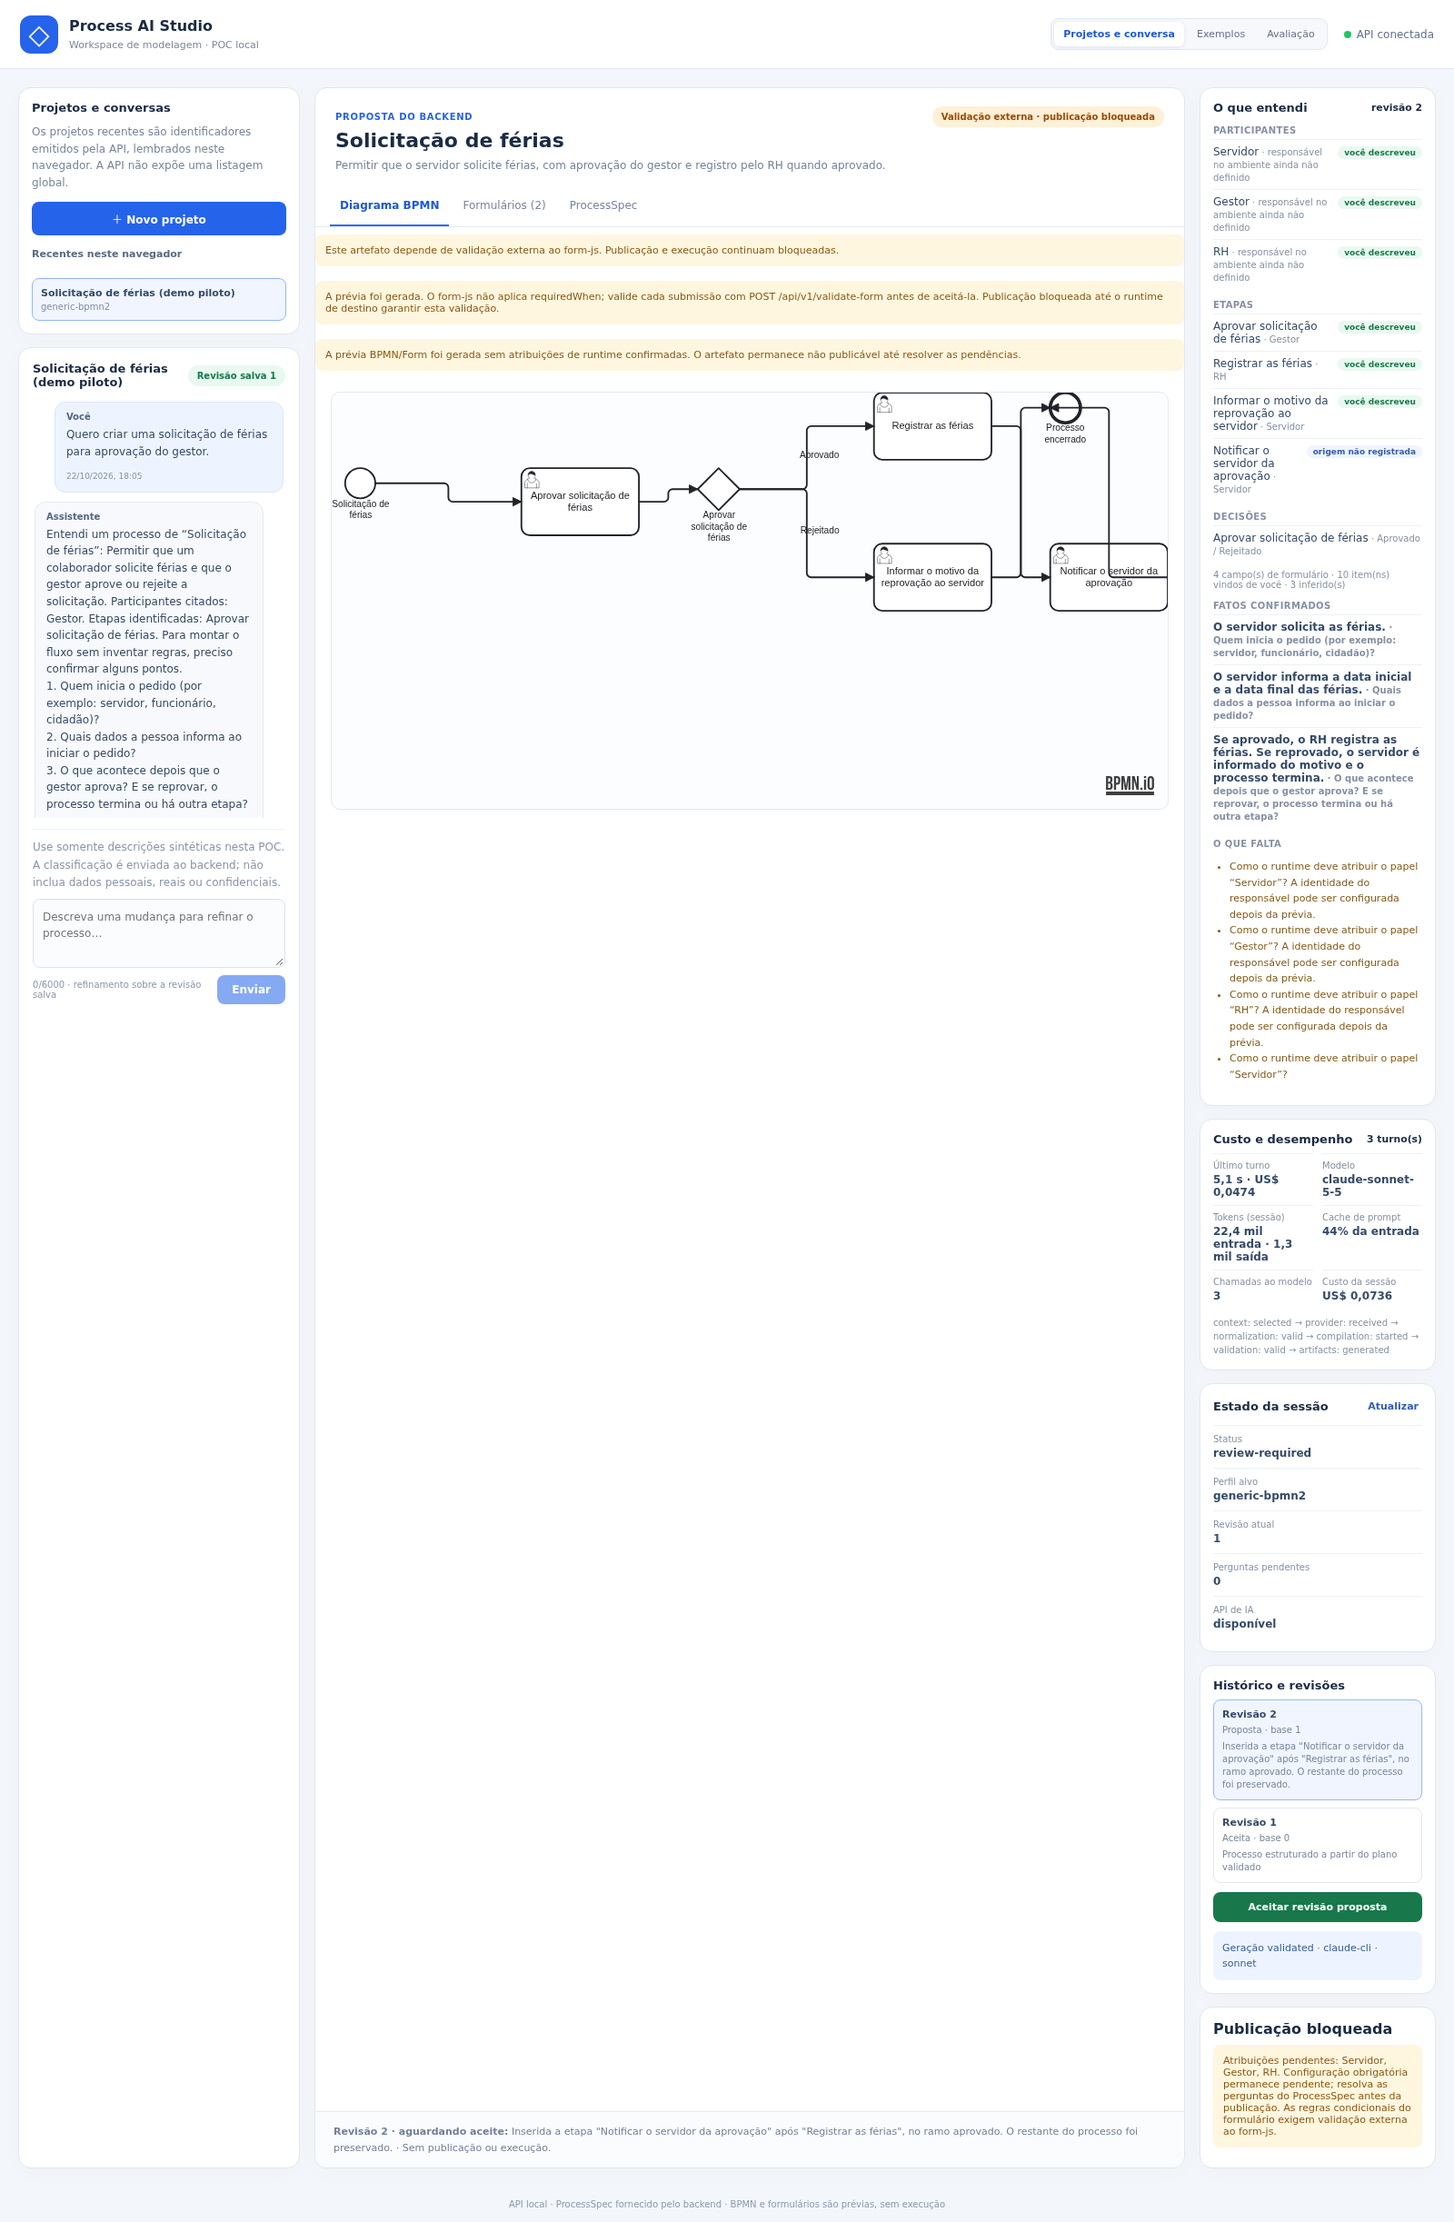
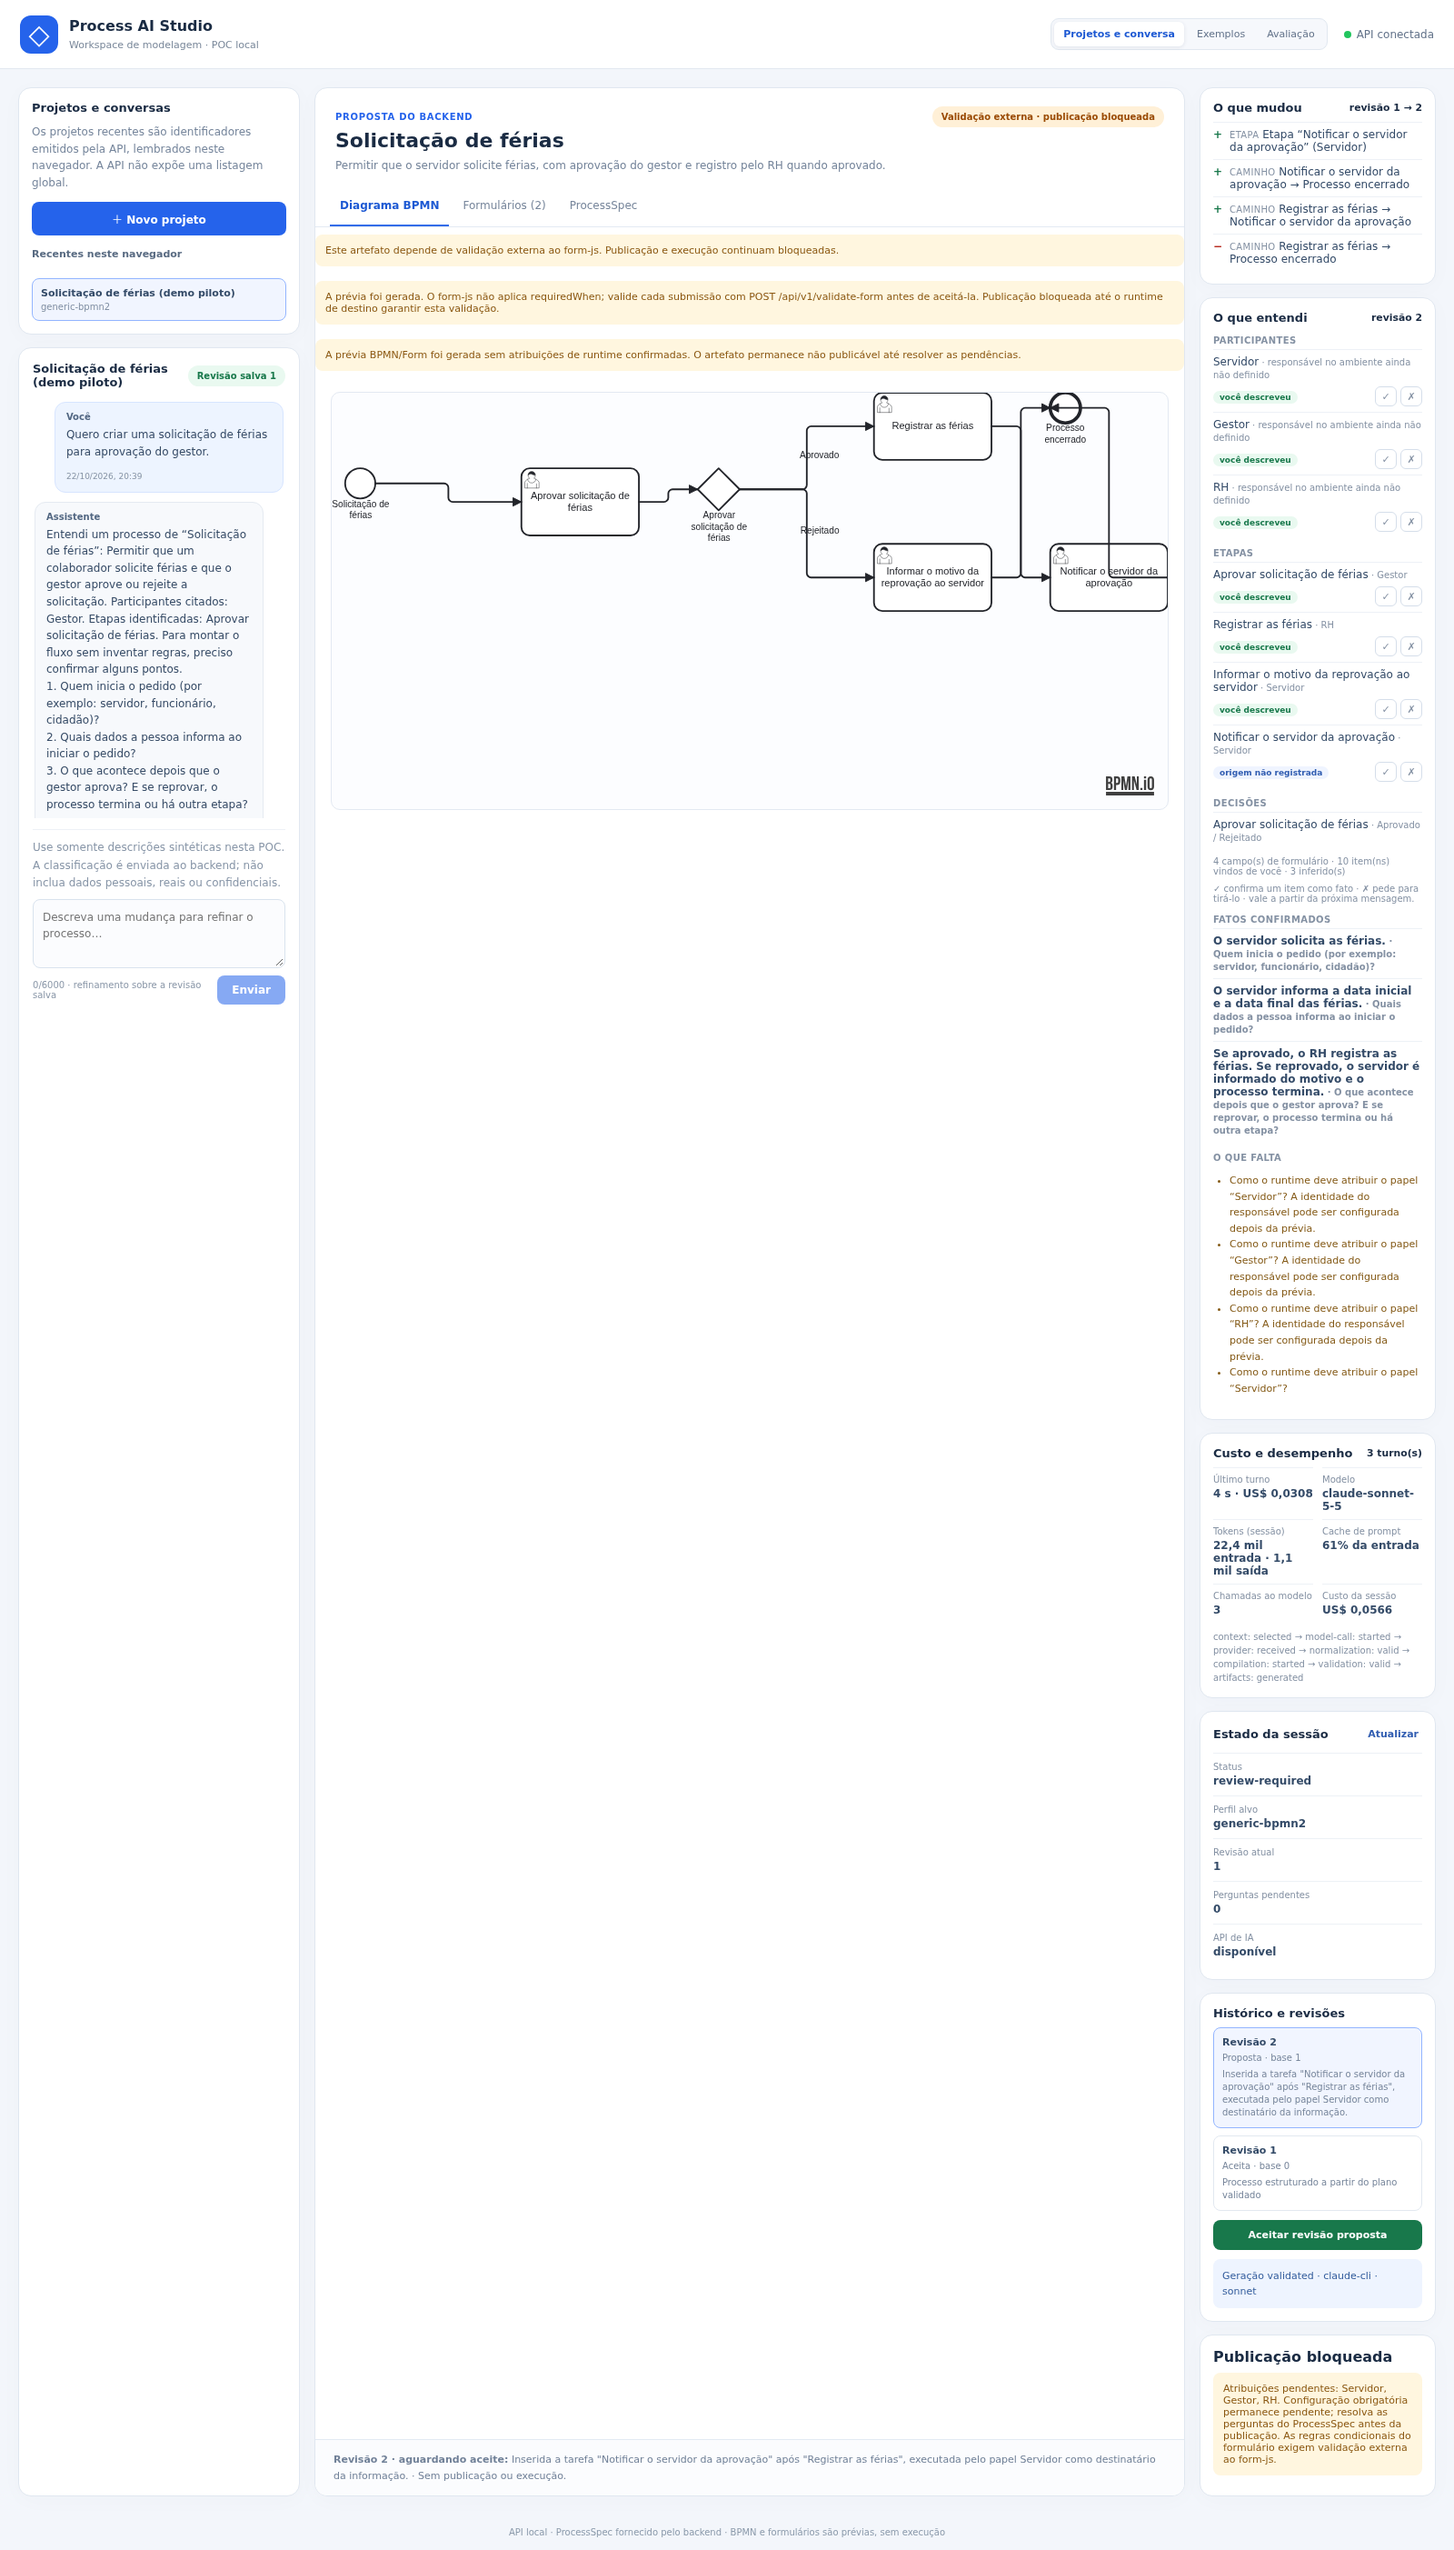
docs(000000): roteiro do piloto com a arquitetura após as ondas de melhoria

diff --git a/docs/demo/PILOTO-20261022.md b/docs/demo/PILOTO-20261022.md
@@ -24,6 +24,23 @@ A LLM interpreta e propõe. O backend decide o que vira processo: valida o schem
 
 O contrato OpenAPI passou de 1.1.0 para **1.2.0**. A mudança é só aditiva: um frontend 1.1.0 continua funcionando, e o frontend novo esconde os painéis se o backend for antigo.
 
+## Arquitetura após as ondas de melhoria (22/10, noite)
+
+| Camada | O que existe | Onde |
+|---|---|---|
+| Pipeline do turno | Etapas explícitas (contexto → interpretar → pergunta repetida → prontidão → compilar → validar → finalizar) e uma única política de correções (`RepairBudget`) | `src/modules/ai/pipeline/` |
+| Qualidade contínua | Placar real + **cassetes record/replay**: o `npm test` reexecuta o corpus em cerca de 1 s, sem rede, e reprova se a qualidade cair ou o prompt mudar sem nova gravação | `scripts/eval/`, `tests/eval-gate.test.ts` |
+| Experiência | Turno assíncrono (202) com progresso real por SSE e máquina de estados no frontend | OpenAPI 1.3.0 |
+| Modelos e custo | Provider da API Anthropic (SDK oficial, saída estruturada, cache, fallback de recusa), cascata `AI_REPAIR_MODEL`, OpenTelemetry por turno | `providers/anthropic-provider.ts`, `observability/otel.ts` |
+| Domínio | Diff de negócio entre revisões, restaurar sem apagar, ledger com ✓/✗ do usuário (rejeição cobrada contra o modelo), exemplos aceitos como few-shot opt-in | OpenAPI 1.4.0, ADR-013/014 |
+| Segurança | OIDC genérico (tenant pela claim), mascaramento de dados pessoais na entrada, limite por pessoa e auditoria sem conteúdo | OpenAPI 1.5.0, ADR-011 |
+
+Pendências declaradas:
+- Provider da API Anthropic testado só com mocks; falta a chave corporativa.
+- Login PKCE no frontend depende da escolha do provedor de identidade.
+- Testes de migration M01–M08 exigem o Postgres dedicado deles e não foram rodados aqui.
+- Barramento SSE de instância única.
+
 ## Números (corpus sintético, 12 cenários, 2 deles propositalmente vagos)
 
 | Configuração | Aprovados | Válidos | Cobertura | Invenções | Latência média | Custo por processo |
